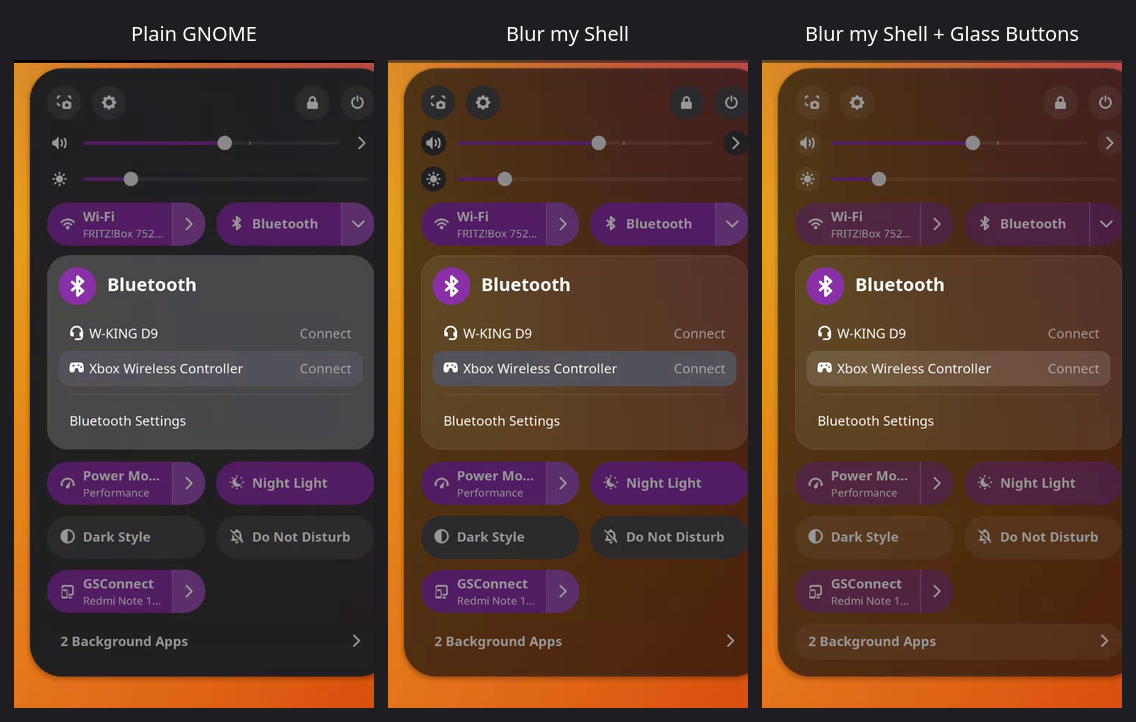
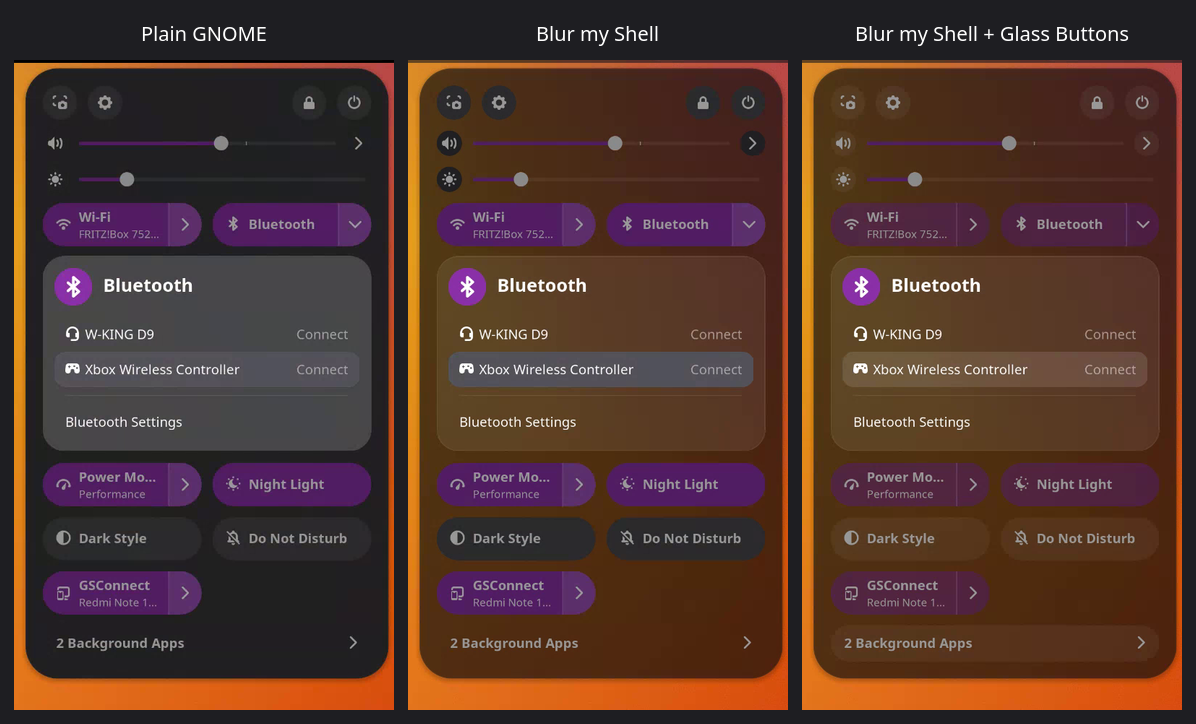
README: fix Quick Settings crop, add tray menu comparison
The Quick Settings screenshot cut off the menu's right edge. Adds the
Discord app indicator menu in the same three states.

diff --git a/README.md b/README.md
@@ -8,6 +8,8 @@ A small GNOME Shell extension (GNOME 49–51) for a glassier shell, made to go w
 
 ![Calendar and notifications: plain GNOME, with Blur my Shell, and with Blur my Shell + Glass Buttons](media/calendar.png)
 
+![App indicator menu (Discord): plain GNOME and Blur my Shell + Glass Buttons with a hovered entry, Blur my Shell alone without](media/tray-menu.png)
+
 ## Features
 
 - **Translucent buttons:** Quick Settings toggles, the calendar/notification popup and app folders get translucent glass buttons that match the blurred popups behind them, instead of solid grey or accent-colored ones.
